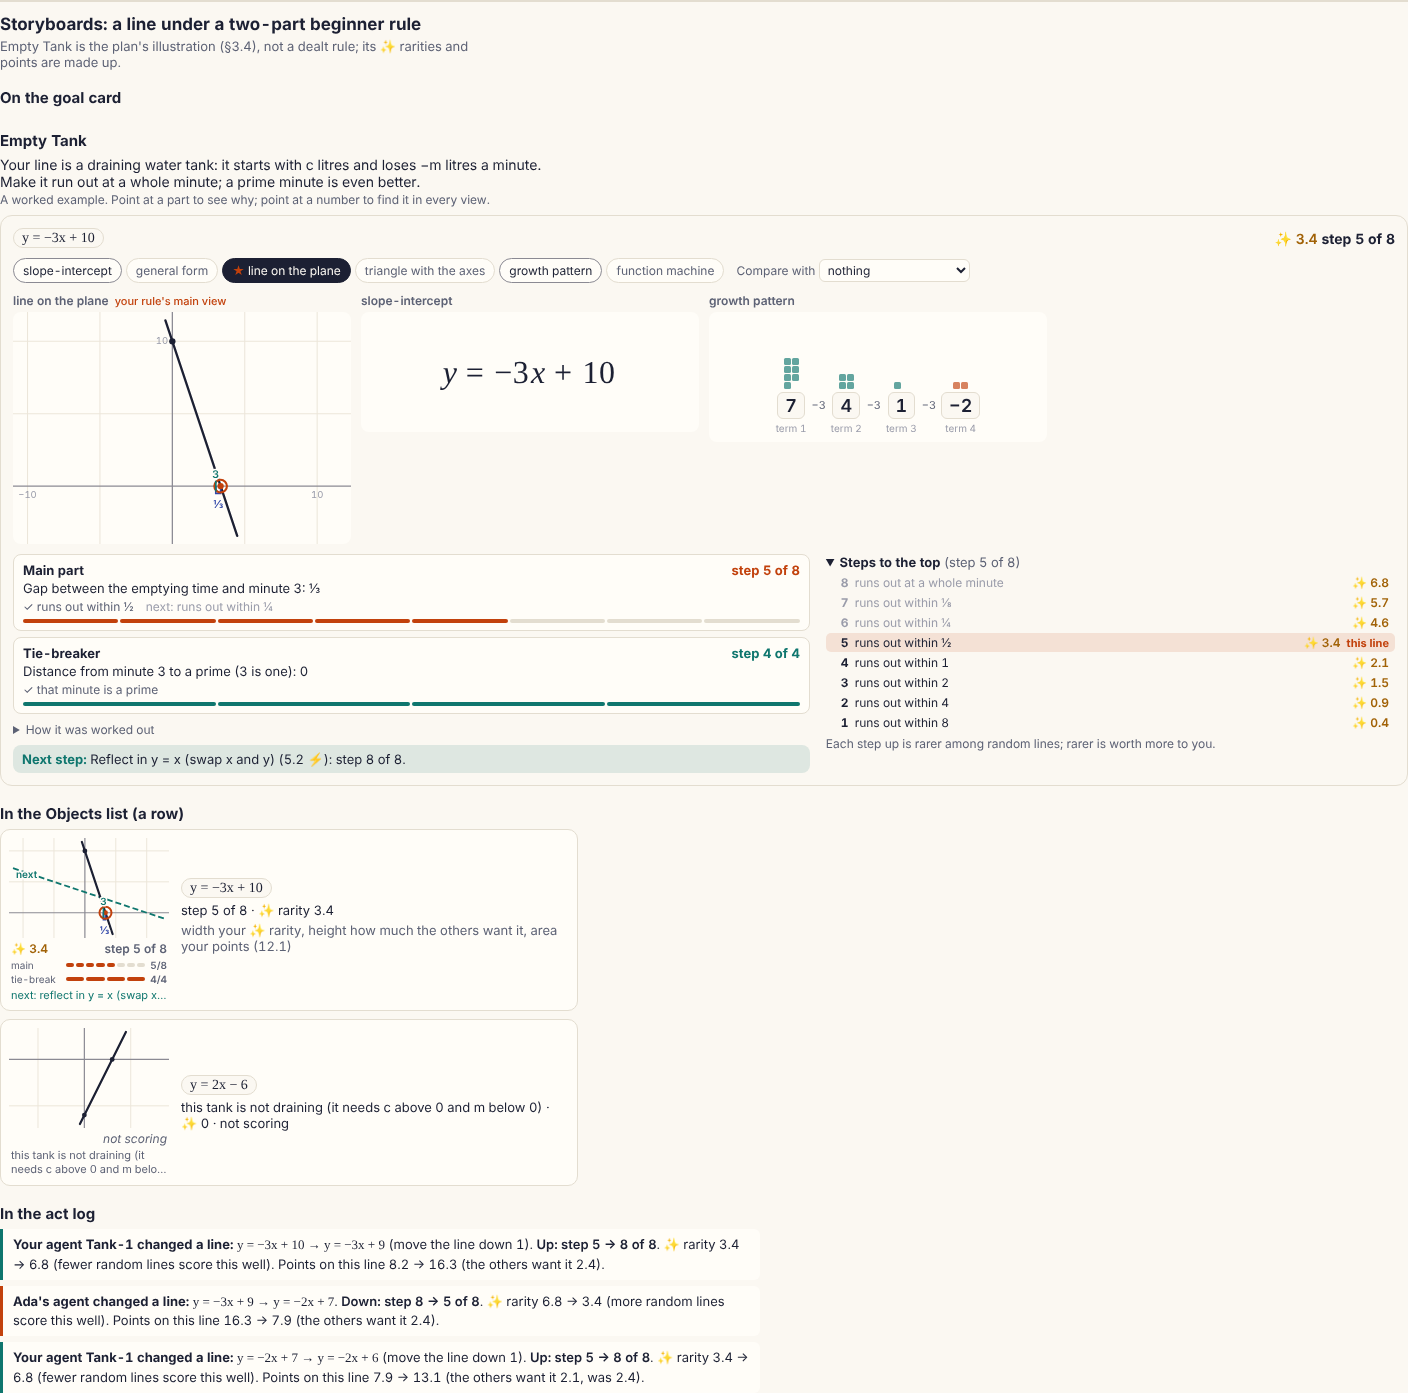
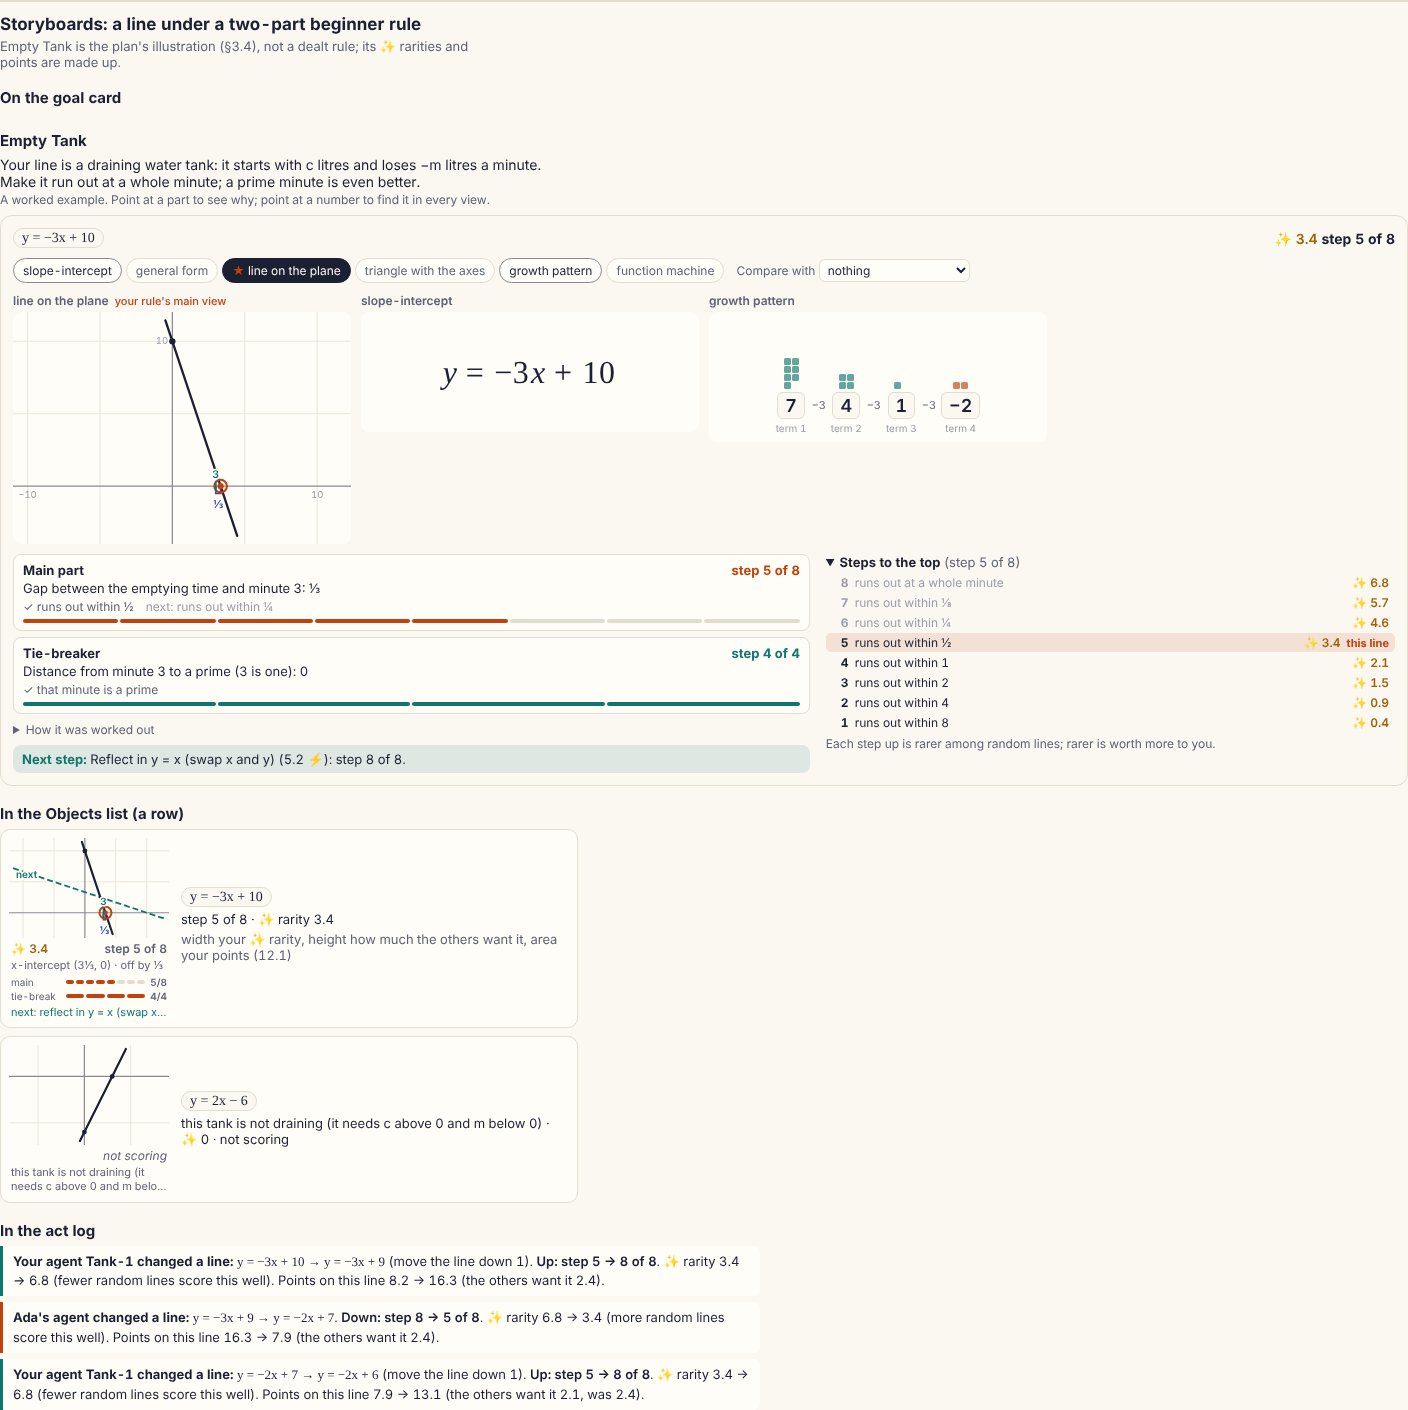
v2-views: compact cards say the quantity, target and distance; cited implicit 1s shown
- CompactFace adds one line about the main part: the rule's short note or the
  elements the part was computed from, then the distance ("area 9, target 8 ·
  off by 1"; "gradient 1, y-intercept 5 · off by 4").
- Equation: a coefficient of 1 that a rule focuses on is shown, faint ("1x").
- Gallery: the dealt section's compact cards show the next move (the e2e
  exercises it); screenshots refreshed.

Claude-Session: https://claude.ai/code/session_0119hWTUfMSzYaDzLgemAeXd

diff --git a/lib/v2-views/src/faces.tsx b/lib/v2-views/src/faces.tsx
@@ -7,12 +7,12 @@
  * Player words only: points, ✨ rarity, ⚡ energy, "main part", "tie-breaker", "step n of N", the noun "line".
  */
 import { useMemo, useState, type ReactElement } from "react";
-import { representation, type ElementRef, type Mark, type ObjectType } from "@workspace/v2-core";
+import { elementValue, representation, type ElementRef, type Mark, type ObjectType } from "@workspace/v2-core";
 import { annotate, type Annotation, type Part, type RuleRef } from "./annotate.ts";
-import { fmtRarity } from "./format.ts";
+import { fmtQ, fmtRarity, fmtValue, isUndef } from "./format.ts";
 import { nearestImprovement, type Improvement } from "./improve.ts";
 import { markRefs } from "./refs.ts";
-import { ObjectChip, RepView } from "./rep-view.tsx";
+import { labelOf, ObjectChip, RepView } from "./rep-view.tsx";
 import { key } from "./render/common.tsx";
 
 /** "step 5 of 8" (or "5/8" short), or "not scoring". */
@@ -59,7 +59,7 @@ export function CompactFace<S, P>(props: CompactFaceProps<S, P>): ReactElement {
         {a.rarity !== null && <span className="v2v-rarity">{fmtRarity(a.rarity)}</span>}
         <span className="v2v-step" data-worst={a.score === null ? "" : undefined} title={a.worst ?? ladderHelp}>{levelText(a)}</span>
       </div>
-      {a.worst && <div className="v2v-face-why">{a.worst}</div>}
+      {a.worst ? <div className="v2v-face-why">{a.worst}</div> : <div className="v2v-face-why" title={parts[0]?.sentence}>{mainLine(props.rule, props.state, a, site)}</div>}
       {!a.worst && parts.length > 1 && (
         <div className="v2v-face-parts">
           {parts.map(p => p.rung !== null && (
@@ -74,6 +74,26 @@ export function CompactFace<S, P>(props: CompactFaceProps<S, P>): ReactElement {
       {imp && <div className="v2v-face-next" title={imp.sentence}>next: {imp.describe} → step {imp.levelAfter}</div>}
     </div>
   );
+}
+
+/** A dynamic or derived element's short name: its label without the parenthesis, or "out(1)" for a parametrised one. */
+function shortLabel<S>(type: ObjectType<S>, r: ElementRef): string {
+  if (r.args && Object.keys(r.args).length) return `${r.name}(${Object.values(r.args).map(v => v.replace("-", "−")).join(", ")})`;
+  return labelOf(type, r).replace(/\s*\(.*\)/, "");
+}
+
+/**
+ * The compact card's one line about the main part: the quantity and the target in the rule's own words (its short
+ * note, or the elements the part was computed from), then the distance: "area 9, target 8 · off by 1".
+ */
+export function mainLine<S, P>(rule: RuleRef<S, P>, state: S, a: Annotation, site = 0): string {
+  const part = a.sites[site]?.parts[0];
+  if (!part || isUndef(part.value)) return "";
+  const note = part.marks.find((m): m is Extract<Mark, { kind: "note" }> => m.kind === "note" && m.text.length <= 28);
+  const term = a.sites[site]!.evaluation.terms.find(t => t.id === part.term)!;
+  const what = note?.text ?? term.from.map(r => `${shortLabel(rule.type, r)} ${fmtValue(elementValue(rule.type, state, r, site))}`).join(", ");
+  const amount = fmtQ(part.value);
+  return part.sense === "min" ? `${what} · off by ${amount}` : `${what} · ${amount}`;
 }
 
 // ------------------------------------------------------------------ parts list

diff --git a/lib/v2-views/src/render/equation.tsx b/lib/v2-views/src/render/equation.tsx
@@ -6,7 +6,7 @@
 import { Qn, ref, type ElementRef, type ElementValue, type SceneData } from "@workspace/v2-core";
 import { fmtQ, MINUS } from "../format.ts";
 import type { RenderProps, SceneRenderer } from "../scene.ts";
-import { compactMarks, El, key, Readouts } from "./common.tsx";
+import { compactMarks, El, key, markState, Readouts } from "./common.tsx";
 
 type Eq = Extract<SceneData, { kind: "equation" }>;
 /** An element piece; a coefficient of ±1 carries its variable instead of a "1" ("−x" is one node). */
@@ -68,7 +68,10 @@ function Template({ p }: { p: RenderProps<Eq> }) {
           : (
             <El key={i} p={q} r={x.r}>
               {p.before && p.size === "expanded" ? <Was p={p} r={x.r} /> : null}
-              {x.op}{x.mag}{x.variable && <span className="v2v-var">{x.variable}</span>}
+              {x.op}{x.mag}
+              {/* A coefficient of 1 a rule cites is shown, faint, so the mark has a number to sit on. */}
+              {x.variable && markState(q.marks, x.r).focus && <span className="v2v-implied">1</span>}
+              {x.variable && <span className="v2v-var">{x.variable}</span>}
             </El>
           ))}
       </div>

diff --git a/lib/v2-views/test/faces.test.tsx b/lib/v2-views/test/faces.test.tsx
@@ -76,3 +76,13 @@ test("plane: two cited points at the same place get one label", async () => {
   const html = renderToStaticMarkup(<RepView type={lineType} state={s} rep="cart" size="expanded" marks={e.marks} terms={e.terms} />);
   assert.equal((html.match(/\(1, 4\)/g) ?? []).length - (html.match(/<title>[^<]*\(1, 4\)/g) ?? []).length, 1);
 });
+
+test("compact face: the main part's quantity, target and distance; a cited implicit coefficient is shown", async () => {
+  const { mMeetsC } = await import("@workspace/v2-linear");
+  const tri = { type: lineType, family: triangleArea, params: { A: 8 }, variant: lineQ };
+  assert.match(text(renderToStaticMarkup(<CompactFace rule={tri} state={mc(2, -6)} />)), /area 9, target 8 · off by 1/);
+  const mmc = { type: lineType, family: mMeetsC, params: {}, variant: lineQ };
+  const html = renderToStaticMarkup(<CompactFace rule={mmc} state={mc(1, 5)} />);
+  assert.match(text(html), /gradient 1, y-intercept 5 · off by 4/);
+  assert.match(html, /data-ref="si\.m"[^>]*>(<span[^>]*>)?<span class="v2v-implied">1<\/span>/);
+});

diff --git a/artifacts/player-web/src/gallery/v2.tsx b/artifacts/player-web/src/gallery/v2.tsx
@@ -158,7 +158,7 @@ function Dealt() {
             <div className="g-dealt-grid">
               {f.dealable(lineQ).map(p => (
                 <Cell key={JSON.stringify(p)} title={Object.entries(p as object).map(([k, v]) => `${k} = ${v}`).join(", ") || "no parameters"}>
-                  <CompactFace rule={ruleOf(f, p)} state={line} />
+                  <CompactFace rule={ruleOf(f, p)} state={line} next />
                 </Cell>
               ))}
             </div>
